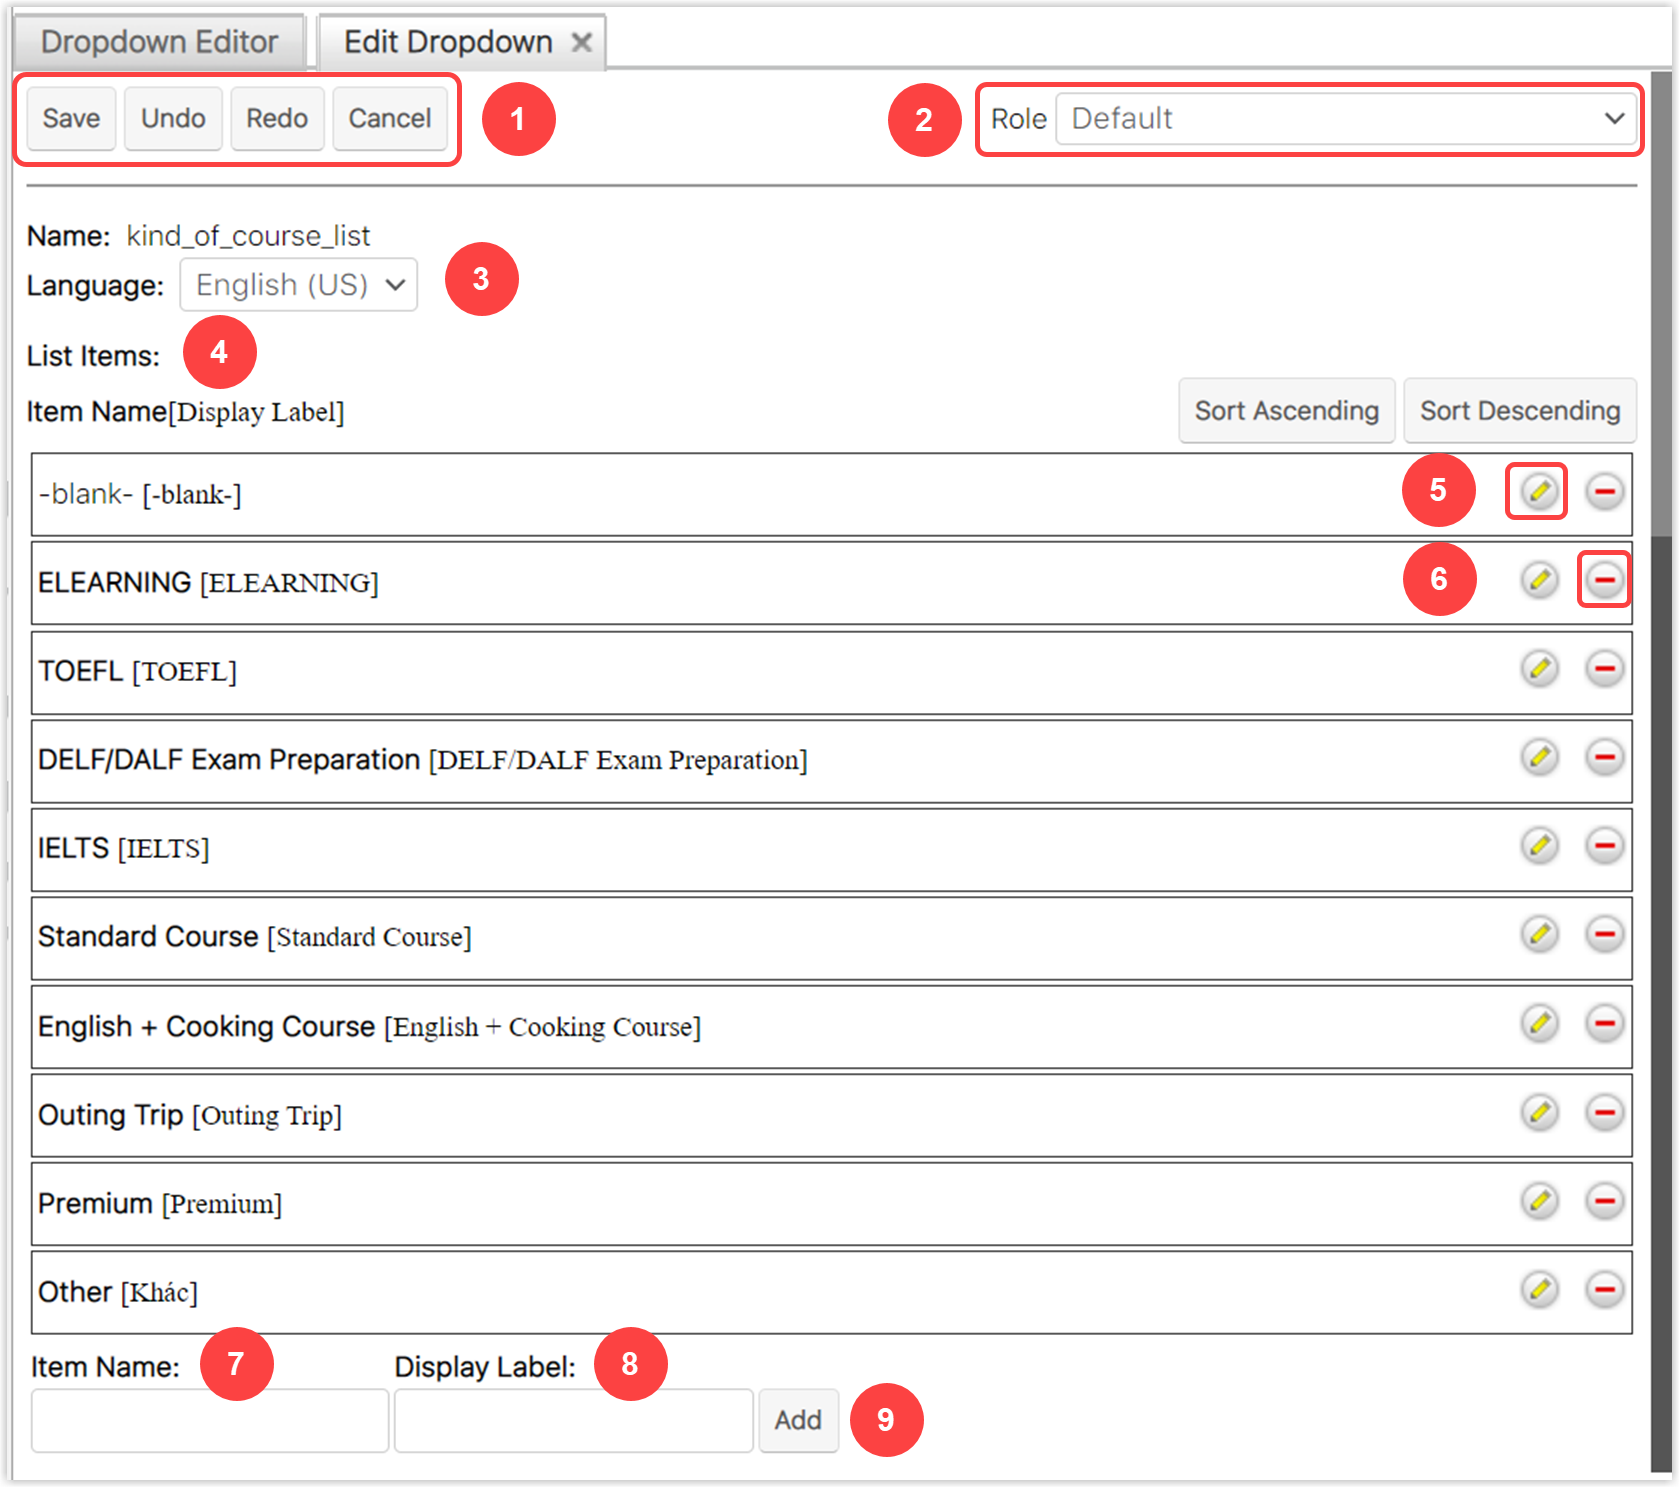
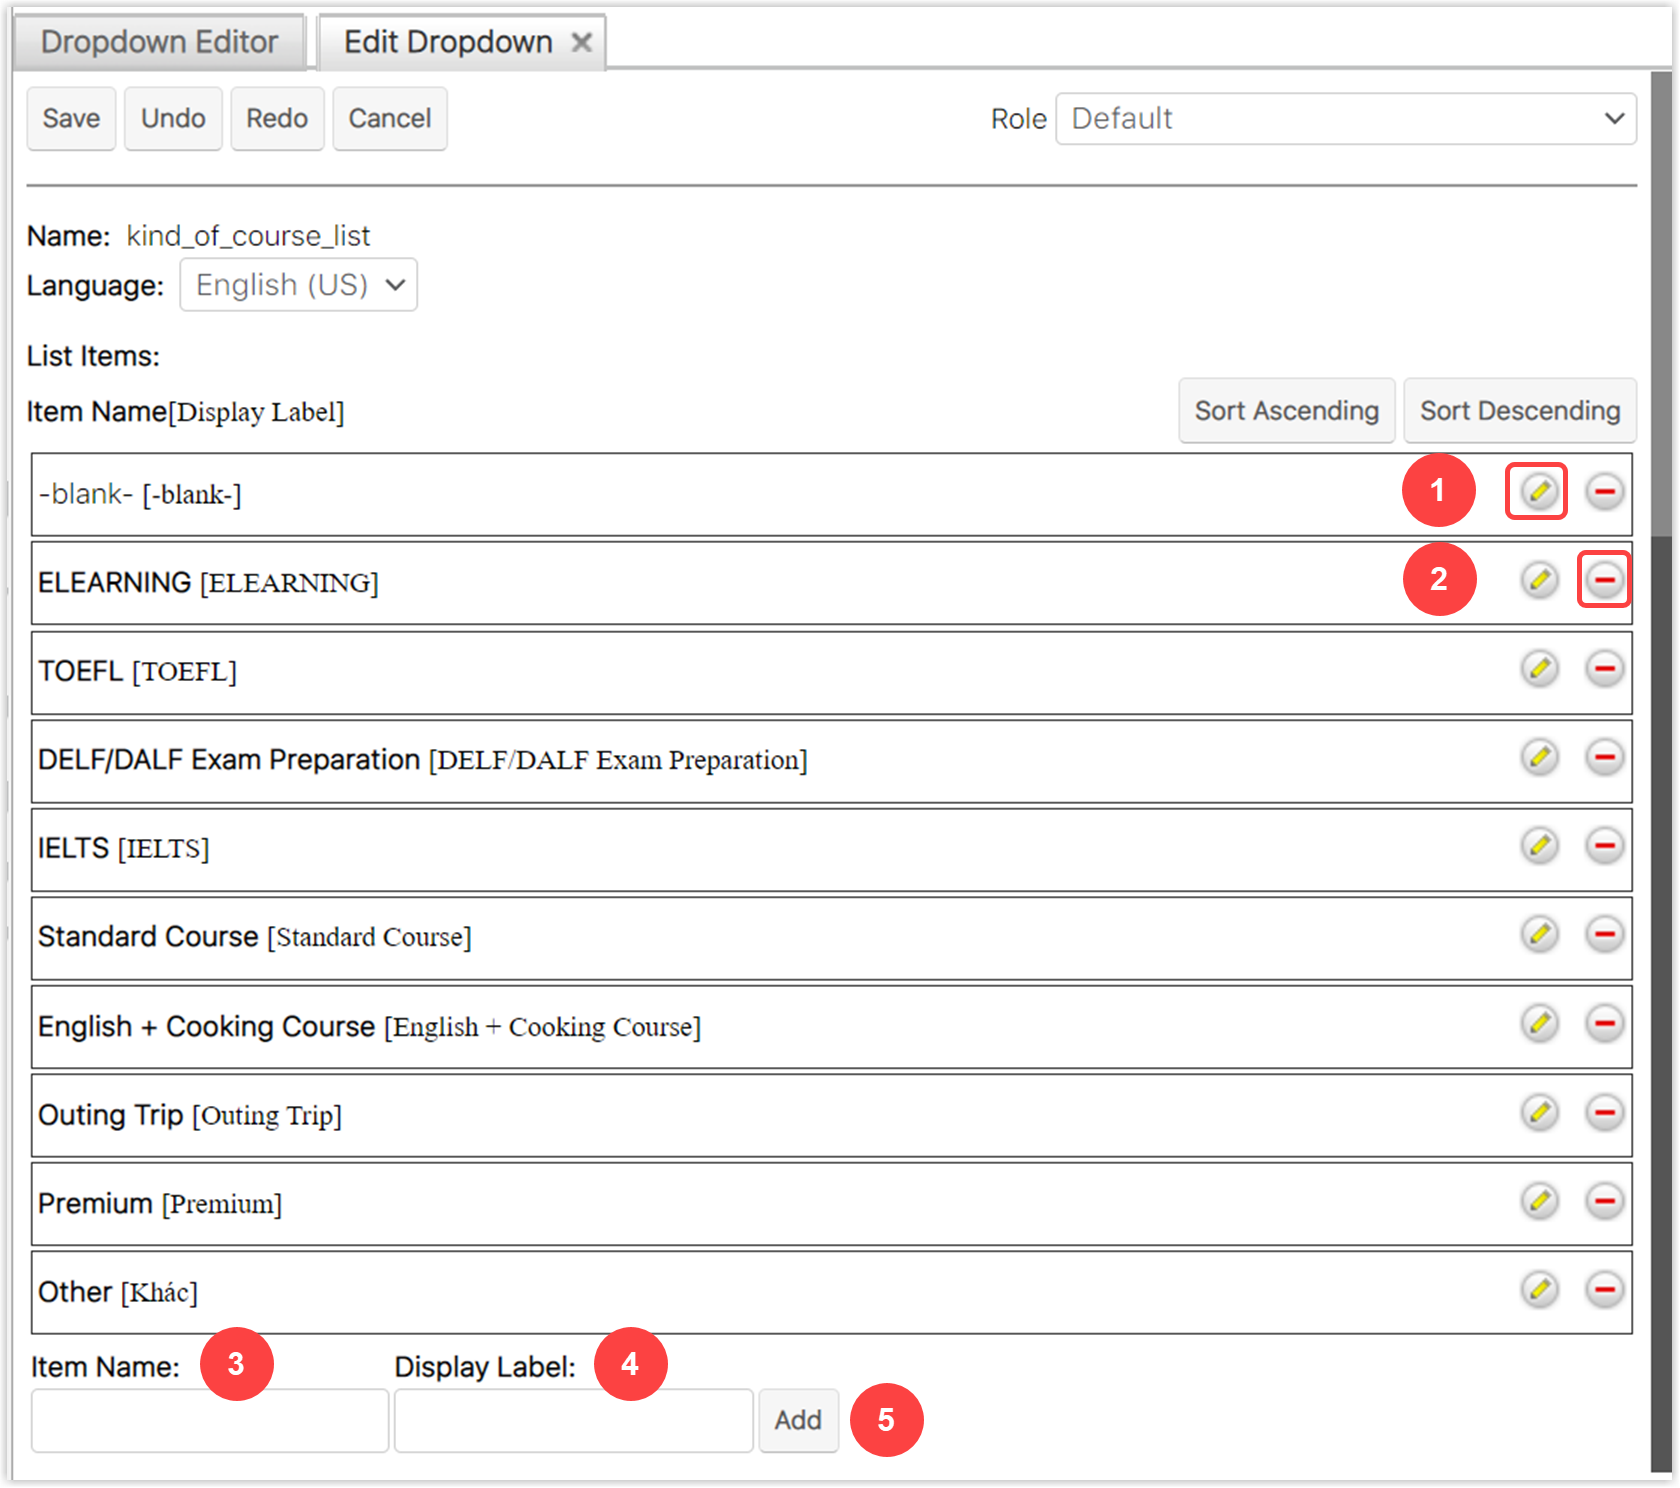
GitBook: [#417] No subject

diff --git a/admin-guide/cau-hinh-dropdown-editor/cau-hinh-dropdown-chanel.md b/admin-guide/cau-hinh-dropdown-editor/cau-hinh-dropdown-chanel.md
@@ -1,24 +1,20 @@
----
-description: Cấu hình Course Category, Prefel Level cho thông tin chương trình học
----
+# Cấu hình Dropdown Chanel
 
-# Cấu hình Dropdown Kind of Courses
-
-**Bước 1:**  Tại Avatar người dùng, bấm chuột vào **Admin** để mở ra màn hình **Admin**
+**Bước 1:  Tại Avatar người dùng, bấm chuột vào Admin để mở ra màn hình Admin**
 
 ![](<../../.gitbook/assets/image (2).png>)
 
-**Bước 2:** Tại màn hình module Admin, nhấp chuột chọn **Dropdown Editor**
+**Bước 2: Tại màn hình module Admin, nhấp chuột chọn Dropdown Editor**
 
 ![](<../../.gitbook/assets/image (3).png>)
 
-**Bước 3**: Tại màn hình Dropdown, lựa chọn mục **kind\_of\_course\_list**
+**Bước 3: Tại màn hình Dropdown, lựa chọn mục kind\_of\_course\_list**
 
 ![](<../../.gitbook/assets/image (1) (2).png>)
 
-**Bước 4:** Nhập thông tin cần thêm cho chương trình cần cài đặt ở mục Item Name và Display Name (**Lưu ý** : 2 thông tin này nhập giống nhau). Sau đó bấm **Add**. Cuối cùng bấm **Save** để hoàn tất.
+**Bước 4: Cập nhật Dropdown Kind of Course**
 
-![](../../.gitbook/assets/image.png)
+![](<../../.gitbook/assets/image (1).png>)
 
 {% hint style="info" %}
 **Ghi chú:**&#x20;

diff --git a/SUMMARY.md b/SUMMARY.md
@@ -141,6 +141,7 @@
 * [Xử lí dữ liệu](admin-guide/xu-li-du-lieu.md)
 * [Cấu hình Dropdown Editor](admin-guide/cau-hinh-dropdown-editor/README.md)
   * [Cấu hình Dropdown Kind of Courses](admin-guide/cau-hinh-dropdown-editor/cau-hinh-dropdown-kind-of-courses.md)
+  * [Cấu hình Dropdown Chanel](admin-guide/cau-hinh-dropdown-editor/cau-hinh-dropdown-chanel.md)
 
 ## Teacher Guide
 
